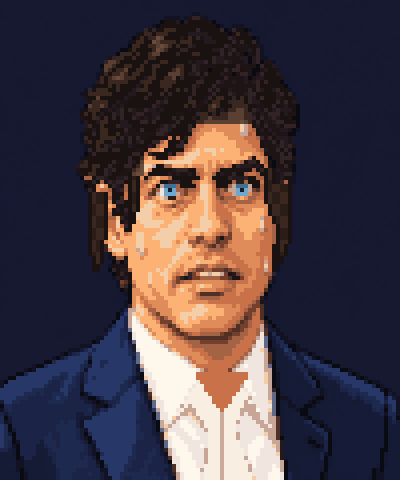
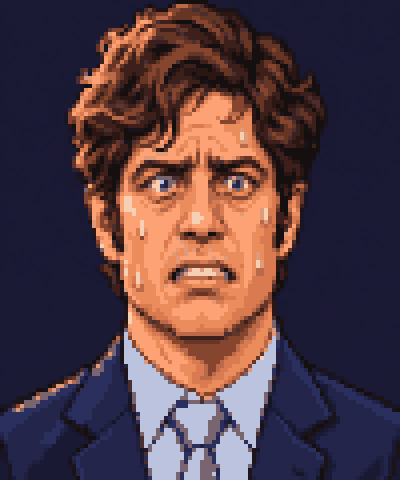
feat: regenerate Kicillof and Grabois art

diff --git a/docs/CLAUDE-HANDOFF.md b/docs/CLAUDE-HANDOFF.md
@@ -2,6 +2,10 @@
 
 Leer primero `CLAUDE.md`, después este archivo y `security_best_practices_report.md`.
 
+## 2026-11-28 — Kicillof and Grabois art regenerated
+
+- The 18 images in `art/new-candidates.json` were regenerated with Codex and reimported (same ids, manifest unchanged). Raw PNGs now sit in `art/raw/`, so `pixel-art.py import` no longer reports them as missing. `cr_president_kicillof` lost its black background and is transparent now; both sprites have no magenta pixels.
+
 ## 2026-11-27 — Historical art pack (done)
 
 - Idea 8 (dedicated art). Paid generation not approved yet: Higgsfield balance 0.5 credits; quote GPT Image 2 low 0.5/image (~19 for all), medium 1.25, Nano Banana 2 1.5. Codex path (`art/README.md`) costs nothing extra.
